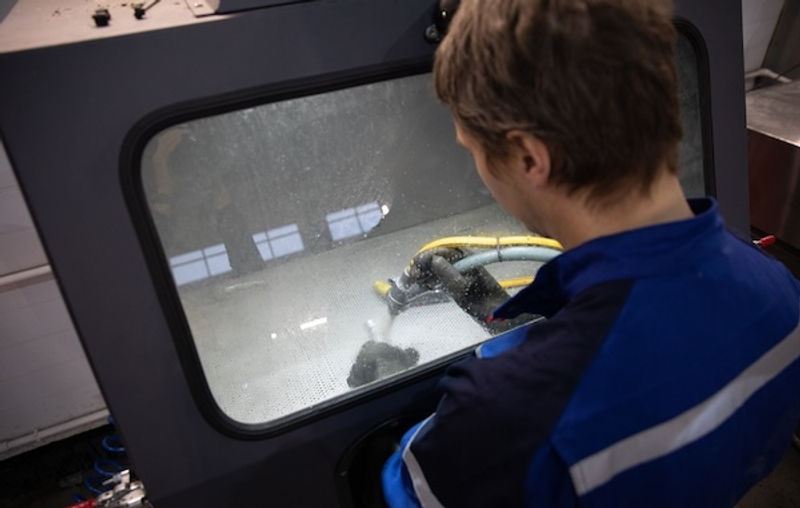
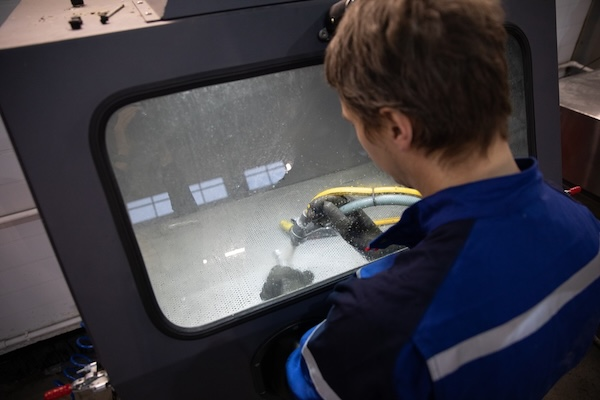
Avtomoika: replace photos with YaDisk originals, add gallery, compress images

diff --git a/avtomoika/index.html b/avtomoika/index.html
@@ -46,12 +46,11 @@
     </div>
     <div class="gallery-slider" style="position:relative;overflow:hidden;border-radius:12px">
       <div class="gallery-slider__track" style="display:flex;transition:transform .4s ease;gap:12px">
-        <img src="../img/avtomoika/services/moika.jpg" alt="Бесконтактная мойка" class="gallery-slide">
-        <img src="../img/avtomoika/services/himchistka.jpg" alt="Химчистка салона" class="gallery-slide">
-        <img src="../img/avtomoika/services/dnishe.jpg" alt="Мойка днища на подъёмнике" class="gallery-slide">
-        <img src="../img/avtomoika/services/akvablasting.jpg" alt="Аквабластинг" class="gallery-slide">
-        <img src="../img/avtomoika/services/samoobsluzhivanie.jpg" alt="Мойка самообслуживания" class="gallery-slide">
-        <img src="../img/avtomoika/services/polirovka.jpg" alt="Полировка кузова" class="gallery-slide">
+        <img src="../img/avtomoika/gallery/1.jpg" alt="Автомоечный комплекс — фото 1" class="gallery-slide">
+        <img src="../img/avtomoika/gallery/2.jpg" alt="Автомоечный комплекс — фото 2" class="gallery-slide">
+        <img src="../img/avtomoika/gallery/3.jpg" alt="Автомоечный комплекс — фото 3" class="gallery-slide">
+        <img src="../img/avtomoika/gallery/4.jpg" alt="Автомоечный комплекс — фото 4" class="gallery-slide">
+        <img src="../img/avtomoika/gallery/5.jpg" alt="Автомоечный комплекс — фото 5" class="gallery-slide">
       </div>
       <button class="gallery-btn gallery-btn--prev" aria-label="Назад">‹</button>
       <button class="gallery-btn gallery-btn--next" aria-label="Вперёд">›</button>
